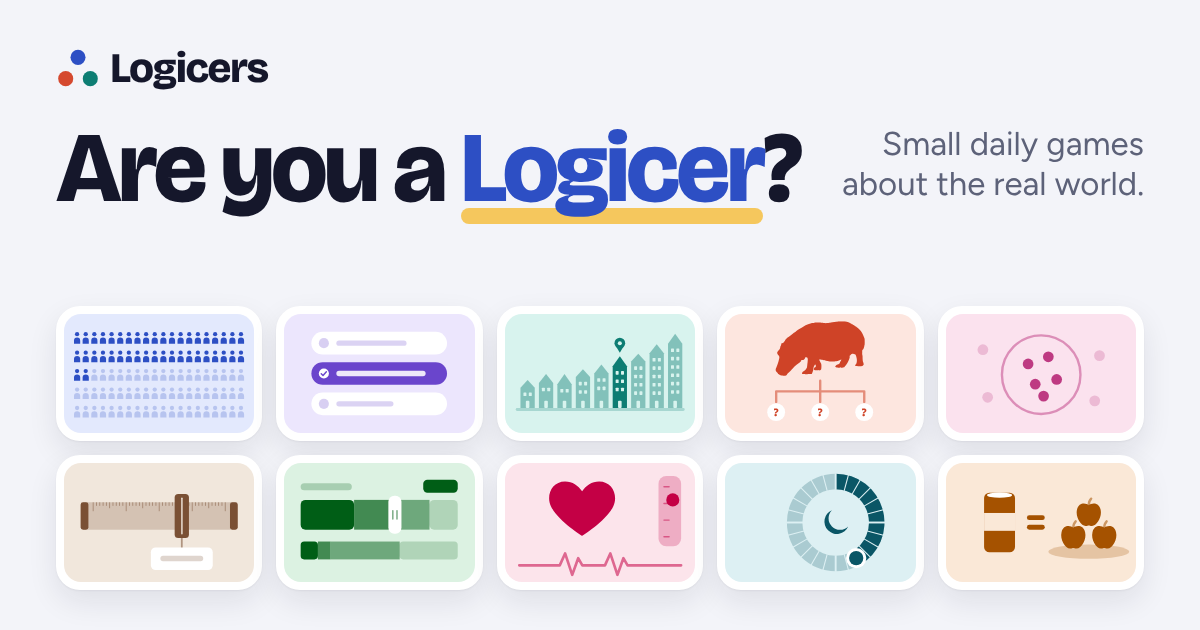
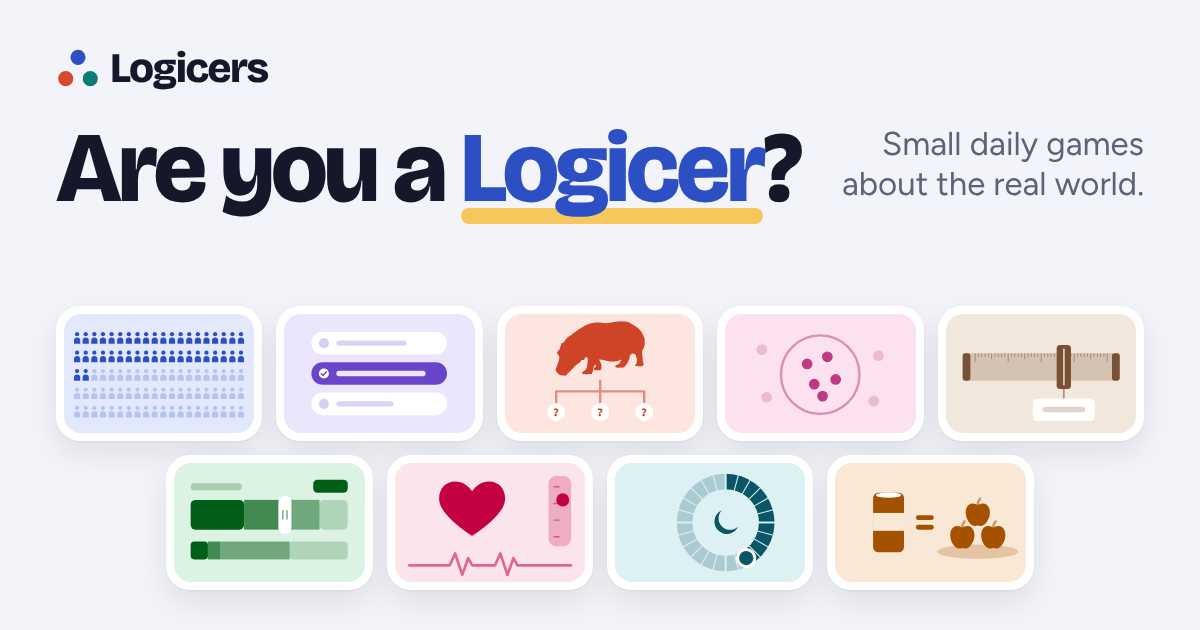
commit to the delete

diff --git a/index.html b/index.html
@@ -47,10 +47,10 @@
     <p class="lede">Small daily games about the real world. A minute each. One true thing every time.</p>
   </div>
   <div class="today">
-    <div class="today-top"><span class="today-label">Today</span><span class="today-count" id="today-count"><b>0</b> of 10 played</span></div>
-    <div class="pips" aria-hidden="true"><i id="pip-energy" data-g="energy"></i><i id="pip-hundred" data-g="hundred"></i><i id="pip-call" data-g="call"></i><i id="pip-street" data-g="street"></i><i id="pip-cousin" data-g="cousin"></i><i id="pip-club" data-g="club"></i><i id="pip-apart" data-g="apart"></i><i id="pip-gets" data-g="gets"></i><i id="pip-every" data-g="every"></i><i id="pip-o24" data-g="o24"></i></div>
+    <div class="today-top"><span class="today-label">Today</span><span class="today-count" id="today-count"><b>0</b> of 9 played</span></div>
+    <div class="pips" aria-hidden="true"><i id="pip-energy" data-g="energy"></i><i id="pip-hundred" data-g="hundred"></i><i id="pip-call" data-g="call"></i><i id="pip-cousin" data-g="cousin"></i><i id="pip-club" data-g="club"></i><i id="pip-apart" data-g="apart"></i><i id="pip-gets" data-g="gets"></i><i id="pip-every" data-g="every"></i><i id="pip-o24" data-g="o24"></i></div>
     <p class="today-note" id="today-note">New games at midnight.</p>
-    <p class="today-duel" id="today-duel"><a href="duel/">Send one link and your friends play the same 10 games.</a></p>
+    <p class="today-duel" id="today-duel"><a href="duel/">Send one link and your friends play the same 9 games.</a></p>
   </div>
 </section>
 
@@ -58,7 +58,7 @@
   <h2 class="sec" id="games-title">Today's games</h2>
   <div class="shelf" id="shelf">
     <button class="shelf-btn prev off" type="button" id="shelf-prev" aria-controls="shelf-row" aria-label="Previous games"><svg class="chev" viewBox="0 0 20 20" aria-hidden="true" focusable="false"><path d="M7.5 4.5L13 10l-5.5 5.5" fill="none" stroke="currentColor" stroke-width="2.4" stroke-linecap="round" stroke-linejoin="round"/></svg></button>
-    <div class="shelf-row" id="shelf-row" data-n="10">
+    <div class="shelf-row" id="shelf-row" data-n="9">
     <a class="tile" id="tile-energy" data-g="energy" href="same-energy/">
       <div class="art"><svg viewBox="0 0 320 200" aria-hidden="true" focusable="false"><rect class="fg" x="64" y="50" width="52" height="100" rx="9"/><rect class="cut" x="64" y="84" width="52" height="30"/><ellipse class="q" cx="90" cy="54" rx="21" ry="4.5"/><rect class="fg" x="136" y="88" width="30" height="8" rx="4"/><rect class="fg" x="136" y="104" width="30" height="8" rx="4"/><ellipse class="mute" cx="240" cy="149" rx="68" ry="12"/><path class="fg" transform="translate(184 90.4) scale(0.6)" d="M50 31C42 24 22 22 17 43C12 63 27 88 41 89C45 89.5 47 87.5 50 87.5C53 87.5 55 89.5 59 89C73 88 88 63 83 43C78 22 58 24 50 31Z"/><path class="ln" fill="none" stroke-width="4" stroke-linecap="round" d="M214 110C213.7 105 215 101 218 98"/><path class="fg" transform="translate(236 90.4) scale(0.6)" d="M50 31C42 24 22 22 17 43C12 63 27 88 41 89C45 89.5 47 87.5 50 87.5C53 87.5 55 89.5 59 89C73 88 88 63 83 43C78 22 58 24 50 31Z"/><path class="ln" fill="none" stroke-width="4" stroke-linecap="round" d="M266 110C265.7 105 267 101 270 98"/><path class="fg" transform="translate(210 52.4) scale(0.6)" d="M50 31C42 24 22 22 17 43C12 63 27 88 41 89C45 89.5 47 87.5 50 87.5C53 87.5 55 89.5 59 89C73 88 88 63 83 43C78 22 58 24 50 31Z"/><path class="ln" fill="none" stroke-width="4" stroke-linecap="round" d="M240 72C239.7 67 241 63 244 60"/></svg><span class="badge">New</span></div>
       <div class="body">
@@ -86,17 +86,6 @@
       <div class="body">
         <h3>Your Call</h3>
         <p class="pitch"><span class="long">A real moment from history and three choices. What did they actually do?</span><span class="short">A real moment from history. What did they do?</span></p>
-        <div class="foot">
-          <span class="go"><span>Play</span><svg class="arrow" viewBox="0 0 20 20" aria-hidden="true"><path d="M4 10h11M10.5 5.5L15 10l-4.5 4.5" fill="none" stroke="currentColor" stroke-width="2.2" stroke-linecap="round" stroke-linejoin="round"/></svg></span><span class="mins">1 min</span>
-          <span class="result" hidden><svg class="check" viewBox="0 0 20 20" aria-hidden="true"><circle cx="10" cy="10" r="10"/><path d="M5.6 10.4l3 3 5.8-6.4" fill="none" stroke-width="2.3" stroke-linecap="round" stroke-linejoin="round"/></svg><b></b></span><span class="again" hidden>See again</span>
-        </div>
-      </div>
-    </a>
-    <a class="tile" id="tile-street" data-g="street" href="same-street/">
-      <div class="art"><svg viewBox="0 0 320 200" aria-hidden="true" focusable="false"><rect class="mute" x="18" y="158" width="284" height="5" rx="2.5"/><path class="fg" d="M26 124l12 -13 12 13V158H26z"/><rect class="cut" x="31" y="132" width="5" height="6" rx="1"/><rect class="cut" x="40" y="132" width="5" height="6" rx="1"/><rect class="cut" x="35" y="146" width="6" height="12" rx="1.5"/><path class="fg" d="M57 116l12 -15 12 15V158H57z"/><rect class="cut" x="62" y="124" width="5" height="6" rx="1"/><rect class="cut" x="71" y="124" width="5" height="6" rx="1"/><rect class="cut" x="66" y="146" width="6" height="12" rx="1.5"/><path class="fg" d="M88 118l12 -17 12 17V158H88z"/><rect class="cut" x="93" y="126" width="5" height="6" rx="1"/><rect class="cut" x="102" y="126" width="5" height="6" rx="1"/><rect class="cut" x="97" y="146" width="6" height="12" rx="1.5"/><path class="fg" d="M119 106l12 -13 12 13V158H119z"/><rect class="cut" x="124" y="114" width="5" height="6" rx="1"/><rect class="cut" x="133" y="114" width="5" height="6" rx="1"/><rect class="cut" x="124" y="128" width="5" height="6" rx="1"/><rect class="cut" x="133" y="128" width="5" height="6" rx="1"/><rect class="cut" x="128" y="146" width="6" height="12" rx="1.5"/><path class="fg" d="M150 100l12 -15 12 15V158H150z"/><rect class="cut" x="155" y="108" width="5" height="6" rx="1"/><rect class="cut" x="164" y="108" width="5" height="6" rx="1"/><rect class="cut" x="155" y="122" width="5" height="6" rx="1"/><rect class="cut" x="164" y="122" width="5" height="6" rx="1"/><rect class="cut" x="159" y="146" width="6" height="12" rx="1.5"/><path class="hi" d="M181 88l12 -17 12 17V158H181z"/><rect class="cut" x="186" y="96" width="5" height="6" rx="1"/><rect class="cut" x="195" y="96" width="5" height="6" rx="1"/><rect class="cut" x="186" y="110" width="5" height="6" rx="1"/><rect class="cut" x="195" y="110" width="5" height="6" rx="1"/><rect class="cut" x="186" y="124" width="5" height="6" rx="1"/><rect class="cut" x="195" y="124" width="5" height="6" rx="1"/><rect class="cut" x="190" y="146" width="6" height="12" rx="1.5"/><g class="hi"><circle cx="193" cy="49" r="9"/><path d="M187 55l6 10 6-10z"/></g><circle class="cut" cx="193" cy="49" r="3.4"/><path class="fg" d="M212 80l12 -13 12 13V158H212z"/><rect class="cut" x="217" y="88" width="5" height="6" rx="1"/><rect class="cut" x="226" y="88" width="5" height="6" rx="1"/><rect class="cut" x="217" y="102" width="5" height="6" rx="1"/><rect class="cut" x="226" y="102" width="5" height="6" rx="1"/><rect class="cut" x="217" y="116" width="5" height="6" rx="1"/><rect class="cut" x="226" y="116" width="5" height="6" rx="1"/><rect class="cut" x="217" y="130" width="5" height="6" rx="1"/><rect class="cut" x="226" y="130" width="5" height="6" rx="1"/><rect class="cut" x="221" y="146" width="6" height="12" rx="1.5"/><path class="fg" d="M243 66l12 -15 12 15V158H243z"/><rect class="cut" x="248" y="74" width="5" height="6" rx="1"/><rect class="cut" x="257" y="74" width="5" height="6" rx="1"/><rect class="cut" x="248" y="88" width="5" height="6" rx="1"/><rect class="cut" x="257" y="88" width="5" height="6" rx="1"/><rect class="cut" x="248" y="102" width="5" height="6" rx="1"/><rect class="cut" x="257" y="102" width="5" height="6" rx="1"/><rect class="cut" x="248" y="116" width="5" height="6" rx="1"/><rect class="cut" x="257" y="116" width="5" height="6" rx="1"/><rect class="cut" x="248" y="130" width="5" height="6" rx="1"/><rect class="cut" x="257" y="130" width="5" height="6" rx="1"/><rect class="cut" x="252" y="146" width="6" height="12" rx="1.5"/><path class="fg" d="M274 50l12 -17 12 17V158H274z"/><rect class="cut" x="279" y="58" width="5" height="6" rx="1"/><rect class="cut" x="288" y="58" width="5" height="6" rx="1"/><rect class="cut" x="279" y="72" width="5" height="6" rx="1"/><rect class="cut" x="288" y="72" width="5" height="6" rx="1"/><rect class="cut" x="279" y="86" width="5" height="6" rx="1"/><rect class="cut" x="288" y="86" width="5" height="6" rx="1"/><rect class="cut" x="279" y="100" width="5" height="6" rx="1"/><rect class="cut" x="288" y="100" width="5" height="6" rx="1"/><rect class="cut" x="279" y="114" width="5" height="6" rx="1"/><rect class="cut" x="288" y="114" width="5" height="6" rx="1"/><rect class="cut" x="279" y="128" width="5" height="6" rx="1"/><rect class="cut" x="288" y="128" width="5" height="6" rx="1"/><rect class="cut" x="283" y="146" width="6" height="12" rx="1.5"/></svg></div>
-      <div class="body">
-        <h3>Same Street</h3>
-        <p class="pitch"><span class="long">Three photos of one real home. Where does it stand on a street sorted by income?</span><span class="short">One real home. Where on the street is it?</span></p>
         <div class="foot">
           <span class="go"><span>Play</span><svg class="arrow" viewBox="0 0 20 20" aria-hidden="true"><path d="M4 10h11M10.5 5.5L15 10l-4.5 4.5" fill="none" stroke="currentColor" stroke-width="2.2" stroke-linecap="round" stroke-linejoin="round"/></svg></span><span class="mins">1 min</span>
           <span class="result" hidden><svg class="check" viewBox="0 0 20 20" aria-hidden="true"><circle cx="10" cy="10" r="10"/><path d="M5.6 10.4l3 3 5.8-6.4" fill="none" stroke-width="2.3" stroke-linecap="round" stroke-linejoin="round"/></svg><b></b></span><span class="again" hidden>See again</span>
@@ -319,8 +308,8 @@
 <script src="every-beat/puzzles.js"></script>
 <script src="out-of-24/puzzles.js"></script>
 <script src="same-energy/puzzles.js"></script>
-<script src="assets/js/turnsout.js?v=9e41bdb1b0"></script>
-<script src="assets/js/duel.js?v=ec14b11d1c"></script>
+<script src="assets/js/turnsout.js?v=3a81e2f029"></script>
+<script src="assets/js/duel.js?v=f9dd66bf06"></script>
 <script>
 /* The home page: what is done today, the streak, and today's animal on the Long Lost Cousin tile.
    It never shows an answer before you have played. */

diff --git a/assets/js/turnsout.js b/assets/js/turnsout.js
@@ -254,6 +254,11 @@
      The browser checks compare the two (r/site-workshop/checks/t_onward.py).
      "done" says whether a stored result is a finished game, "says" puts it into a few words.
      To add a game: add it here, give it a colour in logicers.css and a tile in r/site-workshop/build_home.py.
+     Same Street was taken off this list on 9 Oct 2026 on Khayyam's word, after bad feedback. Its page,
+     its puzzles and its photos are untouched and logicers.com/same-street/ still works for anyone with
+     a link or coming from Listdle or Alldle; it is simply no longer one of the daily games, so it is
+     not on the shelf, not in the Today card, not in the streak, not in the way onward and not in a
+     duel. Putting it back is this one entry.
      ------------------------------------------------------------------ */
   function num(v) { return typeof v === "number" && isFinite(v); }
   function whole(v) { return num(v) && Math.round(v) === v; }
@@ -276,12 +281,6 @@
       ok: function (v) { return v === 0 || v === 1; },
       done: function (r) { return !!r && num(r.c); },
       says: function (r) { return r.c === r.r ? "Same call" : "Different call"; } },
-    { id: "same-street", key: "street", name: "Same Street", href: "same-street/", start: "2026-10-03",
-      pitch: "One real home. Where on the street is it?",
-      score: function (r) { return Math.abs(r.g - r.a); }, wins: "low",
-      ok: function (v) { return whole(v) && v >= 0 && v <= 99; },
-      done: function (r) { return !!r && num(r.g) && r.g >= 1 && r.g <= 100 && r.a >= 1 && r.a <= 100; },
-      says: function (r) { var gap = Math.abs(r.g - r.a); return gap === 0 ? "The right house" : gap === 1 ? "Next door" : gap + " doors away"; } },
     { id: "long-lost-cousin", key: "cousin", name: "Long Lost Cousin", href: "long-lost-cousin/", start: "2026-10-04",
       pitch: "Which one is the closest relative?",
       score: function (r) { return r.r; }, wins: "low",

diff --git a/duel/index.html b/duel/index.html
@@ -17,7 +17,7 @@
 <meta name="viewport" content="width=device-width, initial-scale=1, viewport-fit=cover">
 <title>Who Was Closer: a friend's challenge across today's games | Logicers</title>
 <link rel="canonical" href="https://logicers.com/duel/">
-<meta name="description" content="A friend sent you their day on Logicers. Play the same ten games and see who was closer. No login, no tracking, no cookies, nothing to install.">
+<meta name="description" content="A friend sent you their day on Logicers. Play the same games and see who was closer. No login, no tracking, no cookies, nothing to install.">
 <meta name="alldle-verify" content="Fp4zw6-nHYlCe9Jt7A9yd2mGkMpeVucS">
 <meta name="alldle-verify" content="IQCUUNgiDf4cmuD-1J4hBQUnkcdTouKB">
 <meta name="alldle-verify" content="OIvqAvl7Lhitf_wc1FK6Pddj1IL5a10l">
@@ -104,8 +104,8 @@
   </div>
 </dialog>
 
-<script src="../assets/js/turnsout.js?v=9e41bdb1b0"></script>
-<script src="../assets/js/duel.js?v=ec14b11d1c"></script>
+<script src="../assets/js/turnsout.js?v=3a81e2f029"></script>
+<script src="../assets/js/duel.js?v=f9dd66bf06"></script>
 <script src="duel.js?v=31deafb17a"></script>
 </body>
 </html>

diff --git a/100-of-us/index.html b/100-of-us/index.html
@@ -154,8 +154,8 @@
 <noscript><p style="padding:18px">This game needs JavaScript to run.</p></noscript>
 
 <script src="../data/100-of-us.js"></script>
-<script src="../assets/js/turnsout.js?v=9e41bdb1b0"></script>
-<script src="../assets/js/duel.js?v=ec14b11d1c"></script>
+<script src="../assets/js/turnsout.js?v=3a81e2f029"></script>
+<script src="../assets/js/duel.js?v=f9dd66bf06"></script>
 <script src="../assets/js/100-of-us.js?v=9fd8c445c7"></script>
 </body>
 </html>

diff --git a/assets/js/duel.js b/assets/js/duel.js
@@ -18,7 +18,7 @@
   /* The night colours of logicers.css, for the marks on the dark card.
      r/site-workshop/checks/t_duel.py compares this list with the stylesheet. */
   var DOT = {
-    energy: "#E08600", hundred: "#7FA5FF", call: "#B99DFF", street: "#3FE0C6", cousin: "#FF8468",
+    energy: "#E08600", hundred: "#7FA5FF", call: "#B99DFF", cousin: "#FF8468",
     club: "#FF86BF", apart: "#D9A983", gets: "#35C95F", every: "#FF6687", o24: "#12B2C6"
   };
 

diff --git a/long-lost-cousin/index.html b/long-lost-cousin/index.html
@@ -159,8 +159,8 @@
 <noscript><p style="padding:18px">This game needs JavaScript to run.</p></noscript>
 
 <script src="puzzles.js"></script>
-<script src="../assets/js/turnsout.js?v=9e41bdb1b0"></script>
-<script src="../assets/js/duel.js?v=ec14b11d1c"></script>
+<script src="../assets/js/turnsout.js?v=3a81e2f029"></script>
+<script src="../assets/js/duel.js?v=f9dd66bf06"></script>
 <script src="long-lost-cousin.js?v=3abd6c981f"></script>
 </body>
 </html>

diff --git a/who-gets-what/index.html b/who-gets-what/index.html
@@ -159,8 +159,8 @@
 <noscript><p style="padding:18px">This game needs JavaScript to run.</p></noscript>
 
 <script src="puzzles.js"></script>
-<script src="../assets/js/turnsout.js?v=9e41bdb1b0"></script>
-<script src="../assets/js/duel.js?v=ec14b11d1c"></script>
+<script src="../assets/js/turnsout.js?v=3a81e2f029"></script>
+<script src="../assets/js/duel.js?v=f9dd66bf06"></script>
 <script src="who-gets-what.js?v=44de80aa0f"></script>
 </body>
 </html>

diff --git a/same-energy/index.html b/same-energy/index.html
@@ -167,8 +167,8 @@
 <noscript><p style="padding:18px">This game needs JavaScript to run.</p></noscript>
 
 <script src="puzzles.js"></script>
-<script src="../assets/js/turnsout.js?v=9e41bdb1b0"></script>
-<script src="../assets/js/duel.js?v=ec14b11d1c"></script>
+<script src="../assets/js/turnsout.js?v=3a81e2f029"></script>
+<script src="../assets/js/duel.js?v=f9dd66bf06"></script>
 <script src="same-energy.js?v=669974bf66"></script>
 </body>
 </html>

diff --git a/years-apart/index.html b/years-apart/index.html
@@ -148,8 +148,8 @@
 <noscript><p style="padding:18px">This game needs JavaScript to run.</p></noscript>
 
 <script src="puzzles.js"></script>
-<script src="../assets/js/turnsout.js?v=9e41bdb1b0"></script>
-<script src="../assets/js/duel.js?v=ec14b11d1c"></script>
+<script src="../assets/js/turnsout.js?v=3a81e2f029"></script>
+<script src="../assets/js/duel.js?v=f9dd66bf06"></script>
 <script src="years-apart.js?v=33de55ebe5"></script>
 </body>
 </html>

diff --git a/every-beat/index.html b/every-beat/index.html
@@ -180,8 +180,8 @@
 <noscript><p style="padding:18px">This game needs JavaScript to run.</p></noscript>
 
 <script src="puzzles.js"></script>
-<script src="../assets/js/turnsout.js?v=9e41bdb1b0"></script>
-<script src="../assets/js/duel.js?v=ec14b11d1c"></script>
+<script src="../assets/js/turnsout.js?v=3a81e2f029"></script>
+<script src="../assets/js/duel.js?v=f9dd66bf06"></script>
 <script src="every-beat.js?v=d8f0ab5004"></script>
 </body>
 </html>

diff --git a/out-of-24/index.html b/out-of-24/index.html
@@ -167,8 +167,8 @@
 <noscript><p style="padding:18px">This game needs JavaScript to run.</p></noscript>
 
 <script src="puzzles.js"></script>
-<script src="../assets/js/turnsout.js?v=9e41bdb1b0"></script>
-<script src="../assets/js/duel.js?v=ec14b11d1c"></script>
+<script src="../assets/js/turnsout.js?v=3a81e2f029"></script>
+<script src="../assets/js/duel.js?v=f9dd66bf06"></script>
 <script src="out-of-24.js?v=4c3ae2ff87"></script>
 </body>
 </html>

diff --git a/your-call/index.html b/your-call/index.html
@@ -138,8 +138,8 @@
 <noscript><p style="padding:18px">This game needs JavaScript to run.</p></noscript>
 
 <script src="puzzles.js"></script>
-<script src="../assets/js/turnsout.js?v=9e41bdb1b0"></script>
-<script src="../assets/js/duel.js?v=ec14b11d1c"></script>
+<script src="../assets/js/turnsout.js?v=3a81e2f029"></script>
+<script src="../assets/js/duel.js?v=f9dd66bf06"></script>
 <script src="your-call.js?v=43fe6807d0"></script>
 </body>
 </html>
